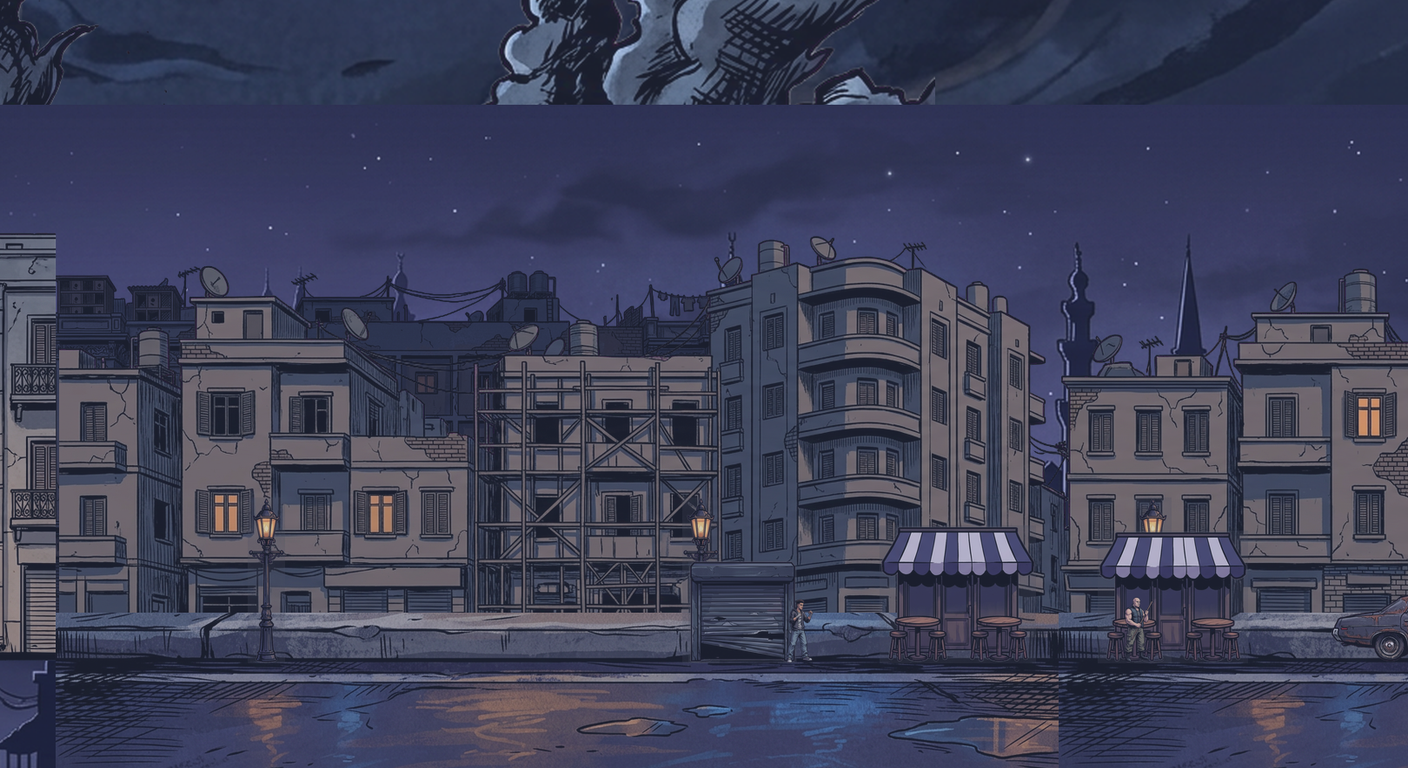
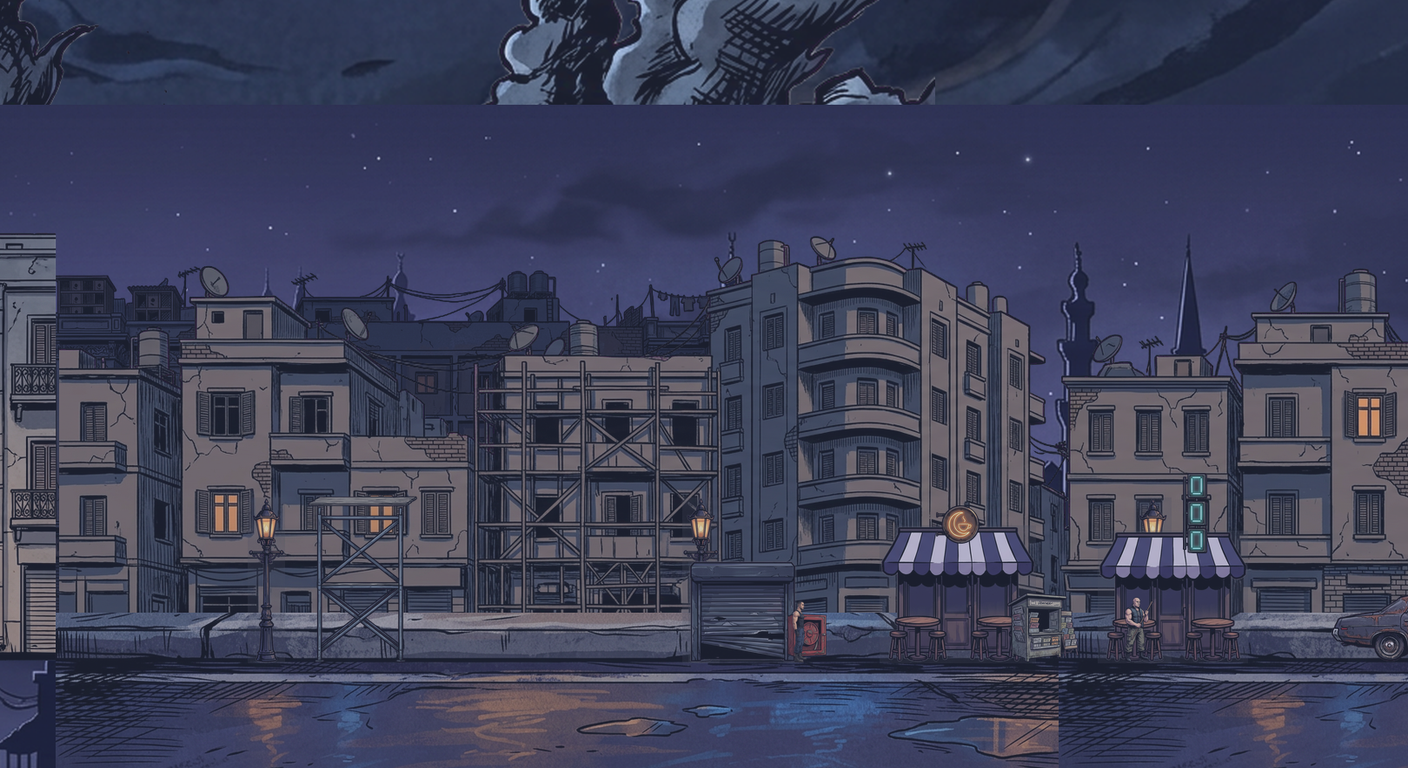
env: diegetic Cairo dressing — scaffolds, awnings, shuttered storefronts, gate art sinks with breach
- new chopped kit: scaffold_frame/brace/plank/ladder(=ibeam)/plank_stack(=ladder)/ibeam_col(=planks),
  awning_blue/green/beige(+wire_banner variant), neon_round/neon_stack, shutter_wide,
  toktok, news_kiosk, hose_reel, dish_cluster, pigeon_coop
- Z1 exit ledge is now a plank on a real X-frame scaffold
- Z4 canopy platforms are striped shop awnings with shuttered storefronts behind them
- Z5 gate is a welded steel shutter; all gate visuals parented to the body so they sink on breach
- rooftop zigzag = wood planks on two scaffold towers + leaning extension ladder
- girders stand on riveted I-beam columns; roof gets pigeon coop, dish farm, hose cabinet
- Z2: news kiosk, neon cafe signs, hose reel; Z3: parked toktok; Z5: construction clutter
- compose_preview.py updated (real sliced idle frame, top-anchor/stretch helpers); mock refreshed

diff --git a/tools/compose_preview.py b/tools/compose_preview.py
@@ -76,17 +76,38 @@ strip = strip.resize((int(strip.width * ST), int(strip.height * ST)), Image.LANC
 for i in range(4):
     canvas.alpha_composite(strip, to_canvas(-96.0 + i * strip.width, GROUND_Y - 70.0 * ST))
 
+def prop(name: str, cx: float, top: float, target_h: float, base: Path = ENV) -> None:
+    im = Image.open(base / f"{name}.png").convert("RGBA")
+    sc = target_h / im.height
+    im = im.resize((max(1, int(im.width * sc)), max(1, int(target_h))), Image.LANCZOS)
+    canvas.alpha_composite(im, to_canvas(cx - im.width * 0.5, top))
+
+
+def stretch_prop(name: str, x: float, top: float, w: float, h: float, base: Path = ENV) -> None:
+    im = Image.open(base / f"{name}.png").convert("RGBA")
+    im = im.resize((max(1, int(w)), max(1, int(h))), Image.LANCZOS)
+    canvas.alpha_composite(im, to_canvas(x, top))
+
+
 # ---- zone props visible in the window (street zones 1-3) ----
 for lx in (140.0, 640.0, 1160.0):
     ground_prop("lamp_post", lx + 7.0, 190.0)
 ground_prop("shutter", 695.0, 118.0)
+# zone-1 scaffold exit ledge
+stretch_prop("plank", 193.0, 408.0, 128.0, 13.0)
+prop("scaffold_frame", 255.0, 420.0, 180.0)
+# zone-2 cafe street life
 ground_prop("cafe_front", 942.0, 158.0)
 ground_prop("cafe_front", 1190.0, 152.0)
+ground_prop("news_kiosk", 1040.0, 82.0)
+prop("neon_round", 942.0, 418.0, 46.0)
+prop("neon_stack", 1215.0, 380.0, 96.0)
+ground_prop("hose_reel", 769.0, 58.0)
 ground_prop("sedan_dark", 1505.0, 82.0)
 ground_prop("van", 1765.0, 96.0)
 
-# ---- placeholder characters for scale ----
-ground_prop("tito_idle", 760.0, 74.0, base=CHARS)
+# ---- characters for scale (the user's real sliced frames) ----
+ground_prop("f_00", 760.0, 74.0, base=CHARS / "anim" / "tito_idle")
 ground_prop("enforcer_idle", 1150.0, 76.0, base=CHARS)
 
 # ---- night grade + downscale to 1408x768 ----

diff --git a/tools/chop_sprites.py b/tools/chop_sprites.py
@@ -26,6 +26,13 @@ SHEETS = {
     'rooftop_kit': {'names': ['girder', 'floodlight', 'water_tank', 'ac_unit',
                               'antenna', 'fence']},
     'clouds': {'names': ['cloud_1', 'cloud_2', 'cloud_3']},
+    'scaffold_kit': {'names': ['scaffold_frame', 'brace', 'plank',
+                               'ladder', 'plank_stack', 'ibeam_col']},
+    'storefront_kit': {'names': ['awning_blue', 'awning_green', 'awning_beige',
+                                 'neon_round', 'neon_stack', 'shutter_wide',
+                                 'wire_banner']},
+    'city_props2': {'names': ['toktok', 'news_kiosk', 'hose_reel',
+                              'dish_cluster', 'pigeon_coop']},
     'facades_b': {'mode': 'whole'},
     'facades_c': {'mode': 'whole'},
     'facades_d': {'mode': 'whole'},
